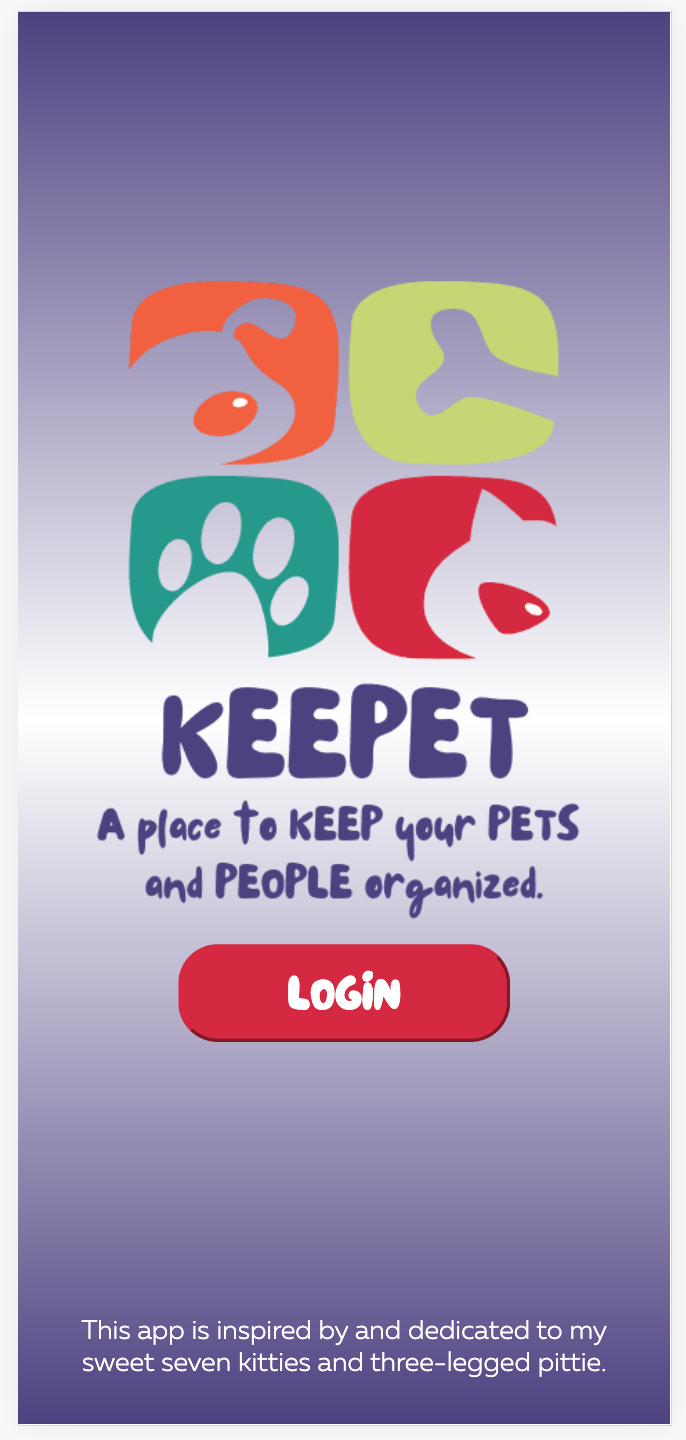
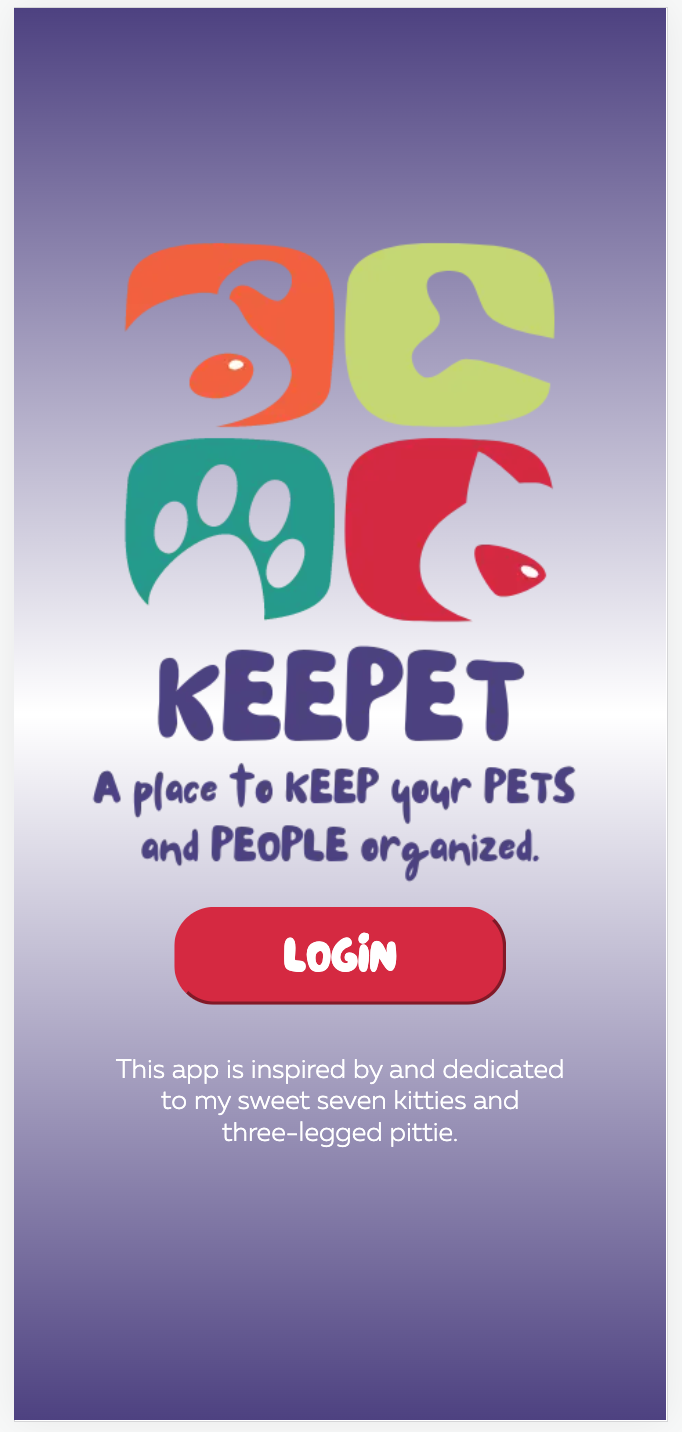
updated footer on login page and replaced screenshot

diff --git a/components/Signin.js b/components/Signin.js
@@ -9,7 +9,7 @@ function Signin() {
         <div
           className="text-center d-flex flex-column justify-content-center align-content-center"
           style={{
-            height: '90vh',
+            height: '100vh',
             padding: '30px',
             maxWidth: '400px',
             margin: '0 auto',
@@ -19,17 +19,7 @@ function Signin() {
           <button type="button" className="login-btn pc-font-sm" onClick={signIn}>
             LOGIN
           </button>
-        </div>
-        <div
-          className="text-center d-flex flex-column justify-content-center align-content-center"
-          style={{
-            height: '10vh',
-            padding: '30px',
-            maxWidth: '400px',
-            margin: '0 auto',
-          }}
-        >
-          <h6 className="muller-light-xsm" style={{ color: 'white' }}>This app is inspired by and dedicated to my sweet seven kitties and three-legged pittie.</h6>
+          <h6 className="muller-light-xsm" style={{ color: 'white', padding: '30px' }}>This app is inspired by and dedicated to my sweet seven kitties and <br />three-legged pittie.</h6>
         </div>
       </div>
     </>
